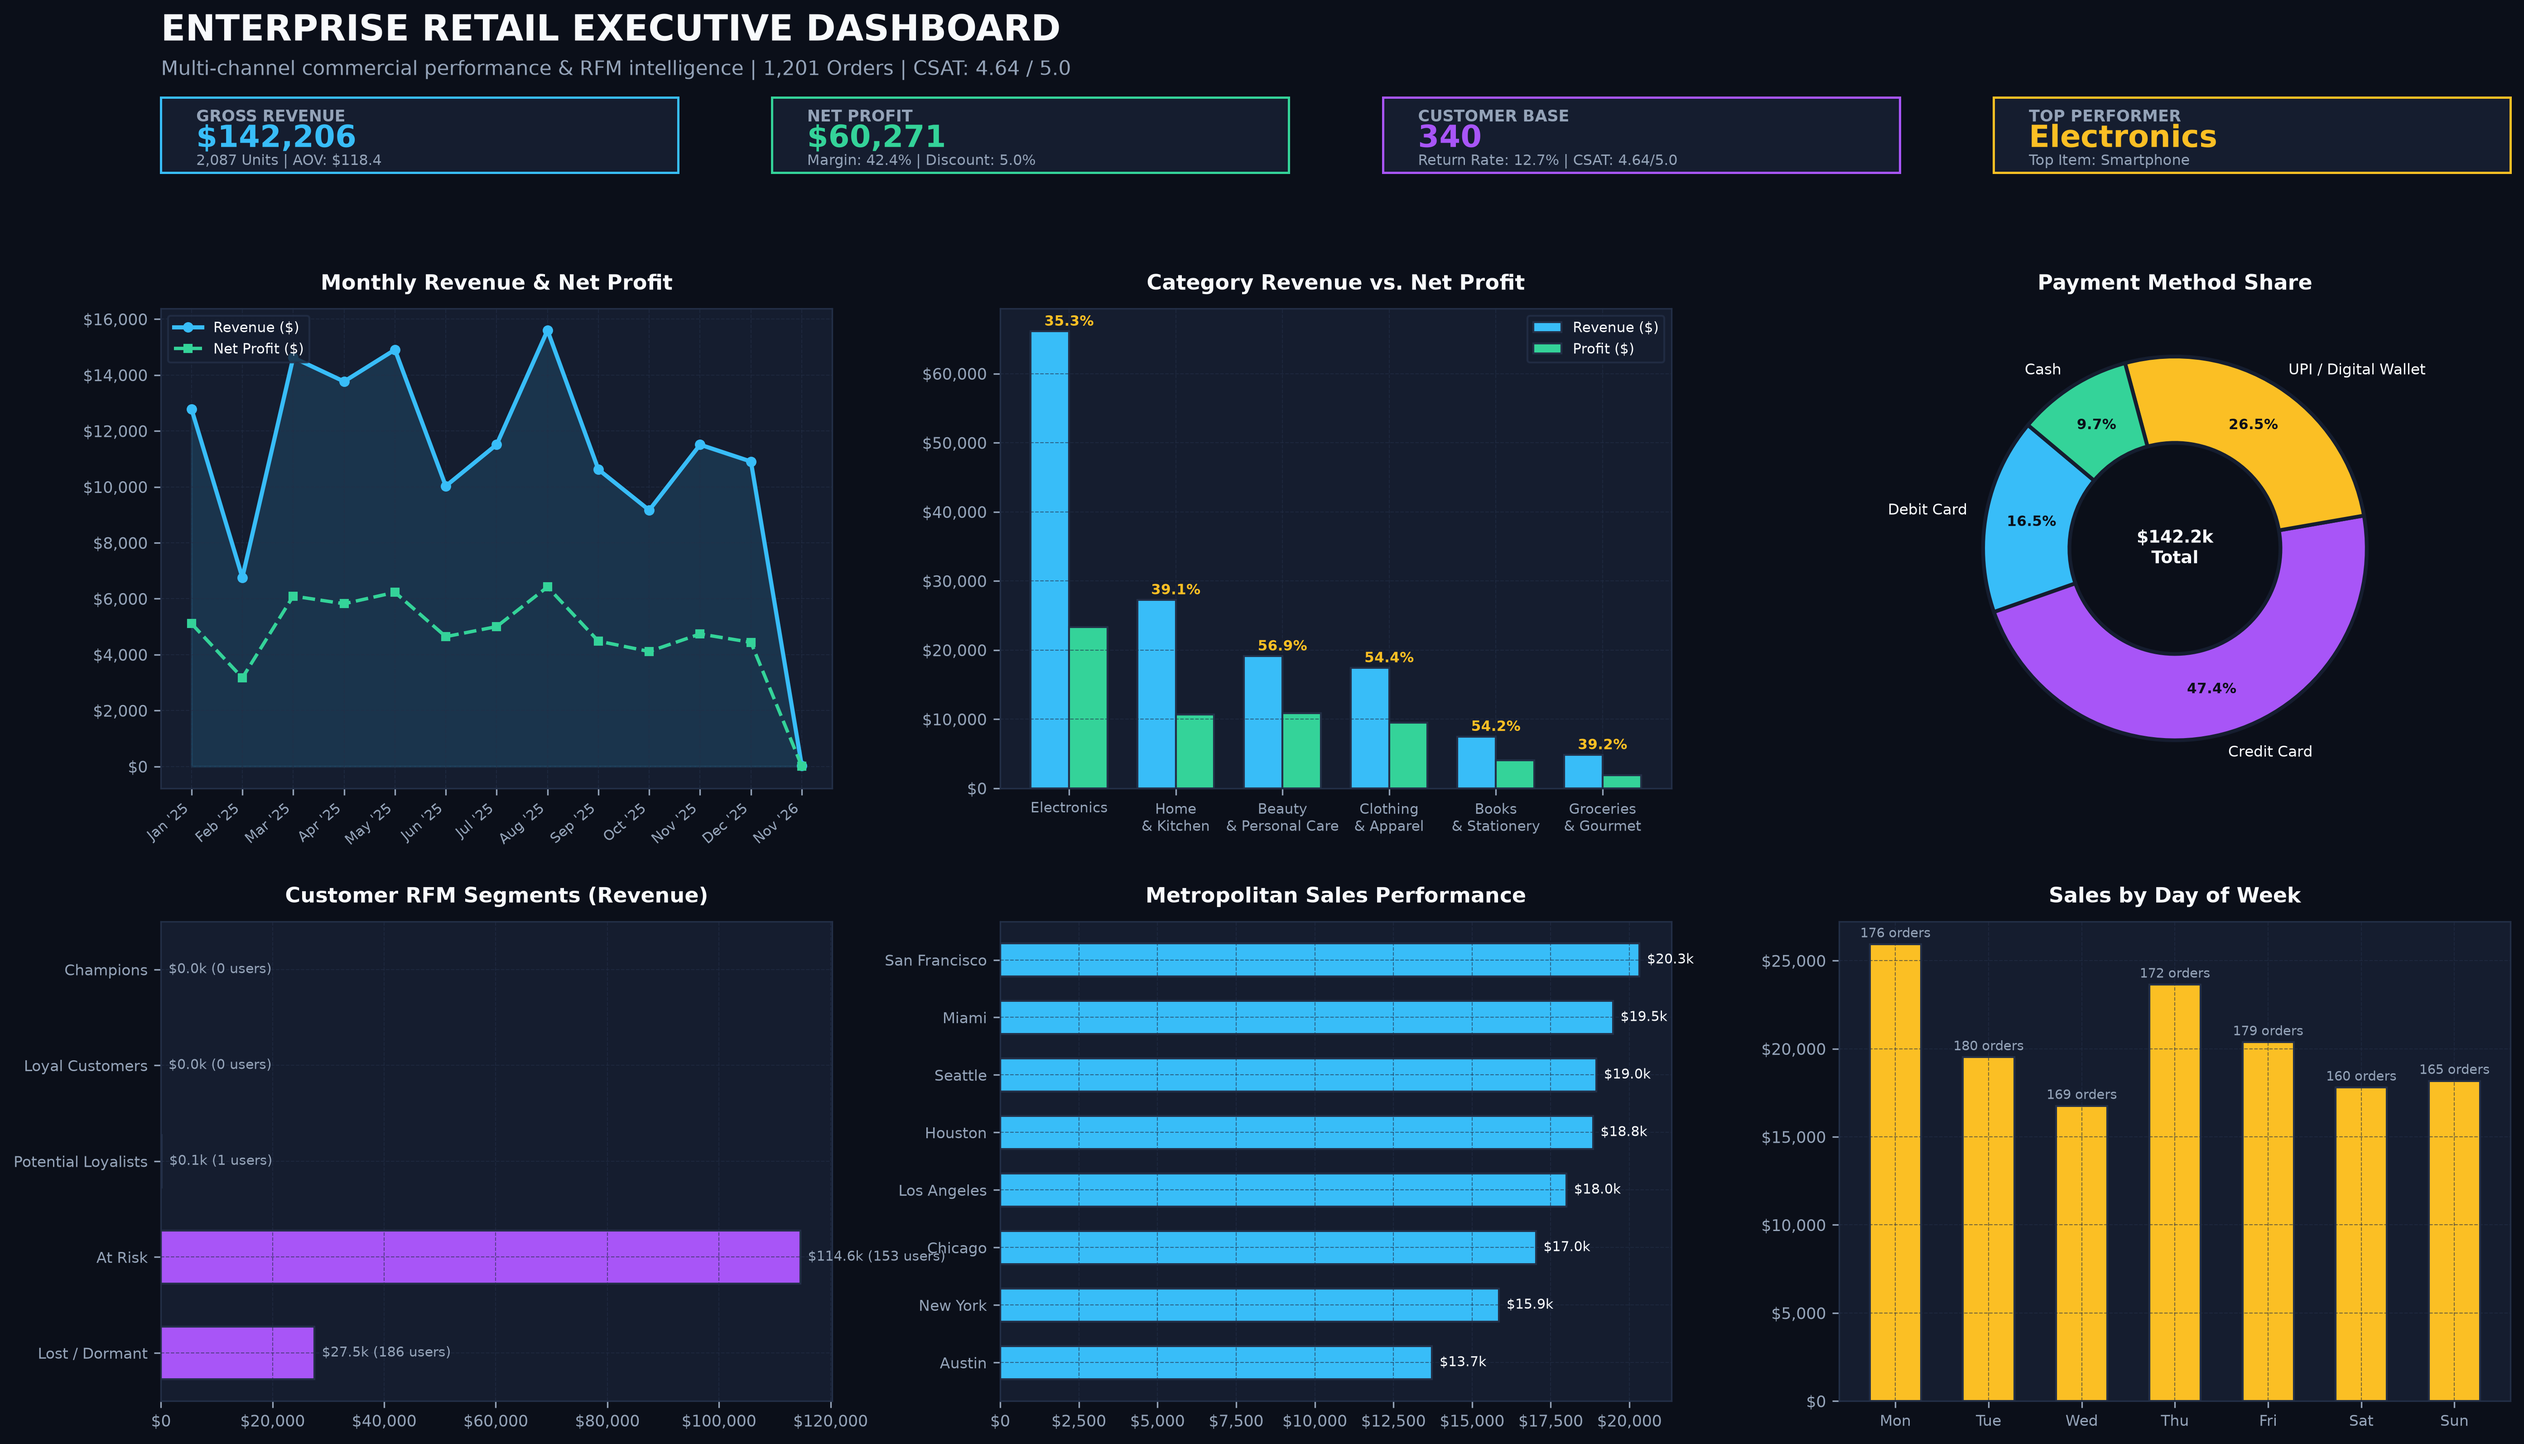
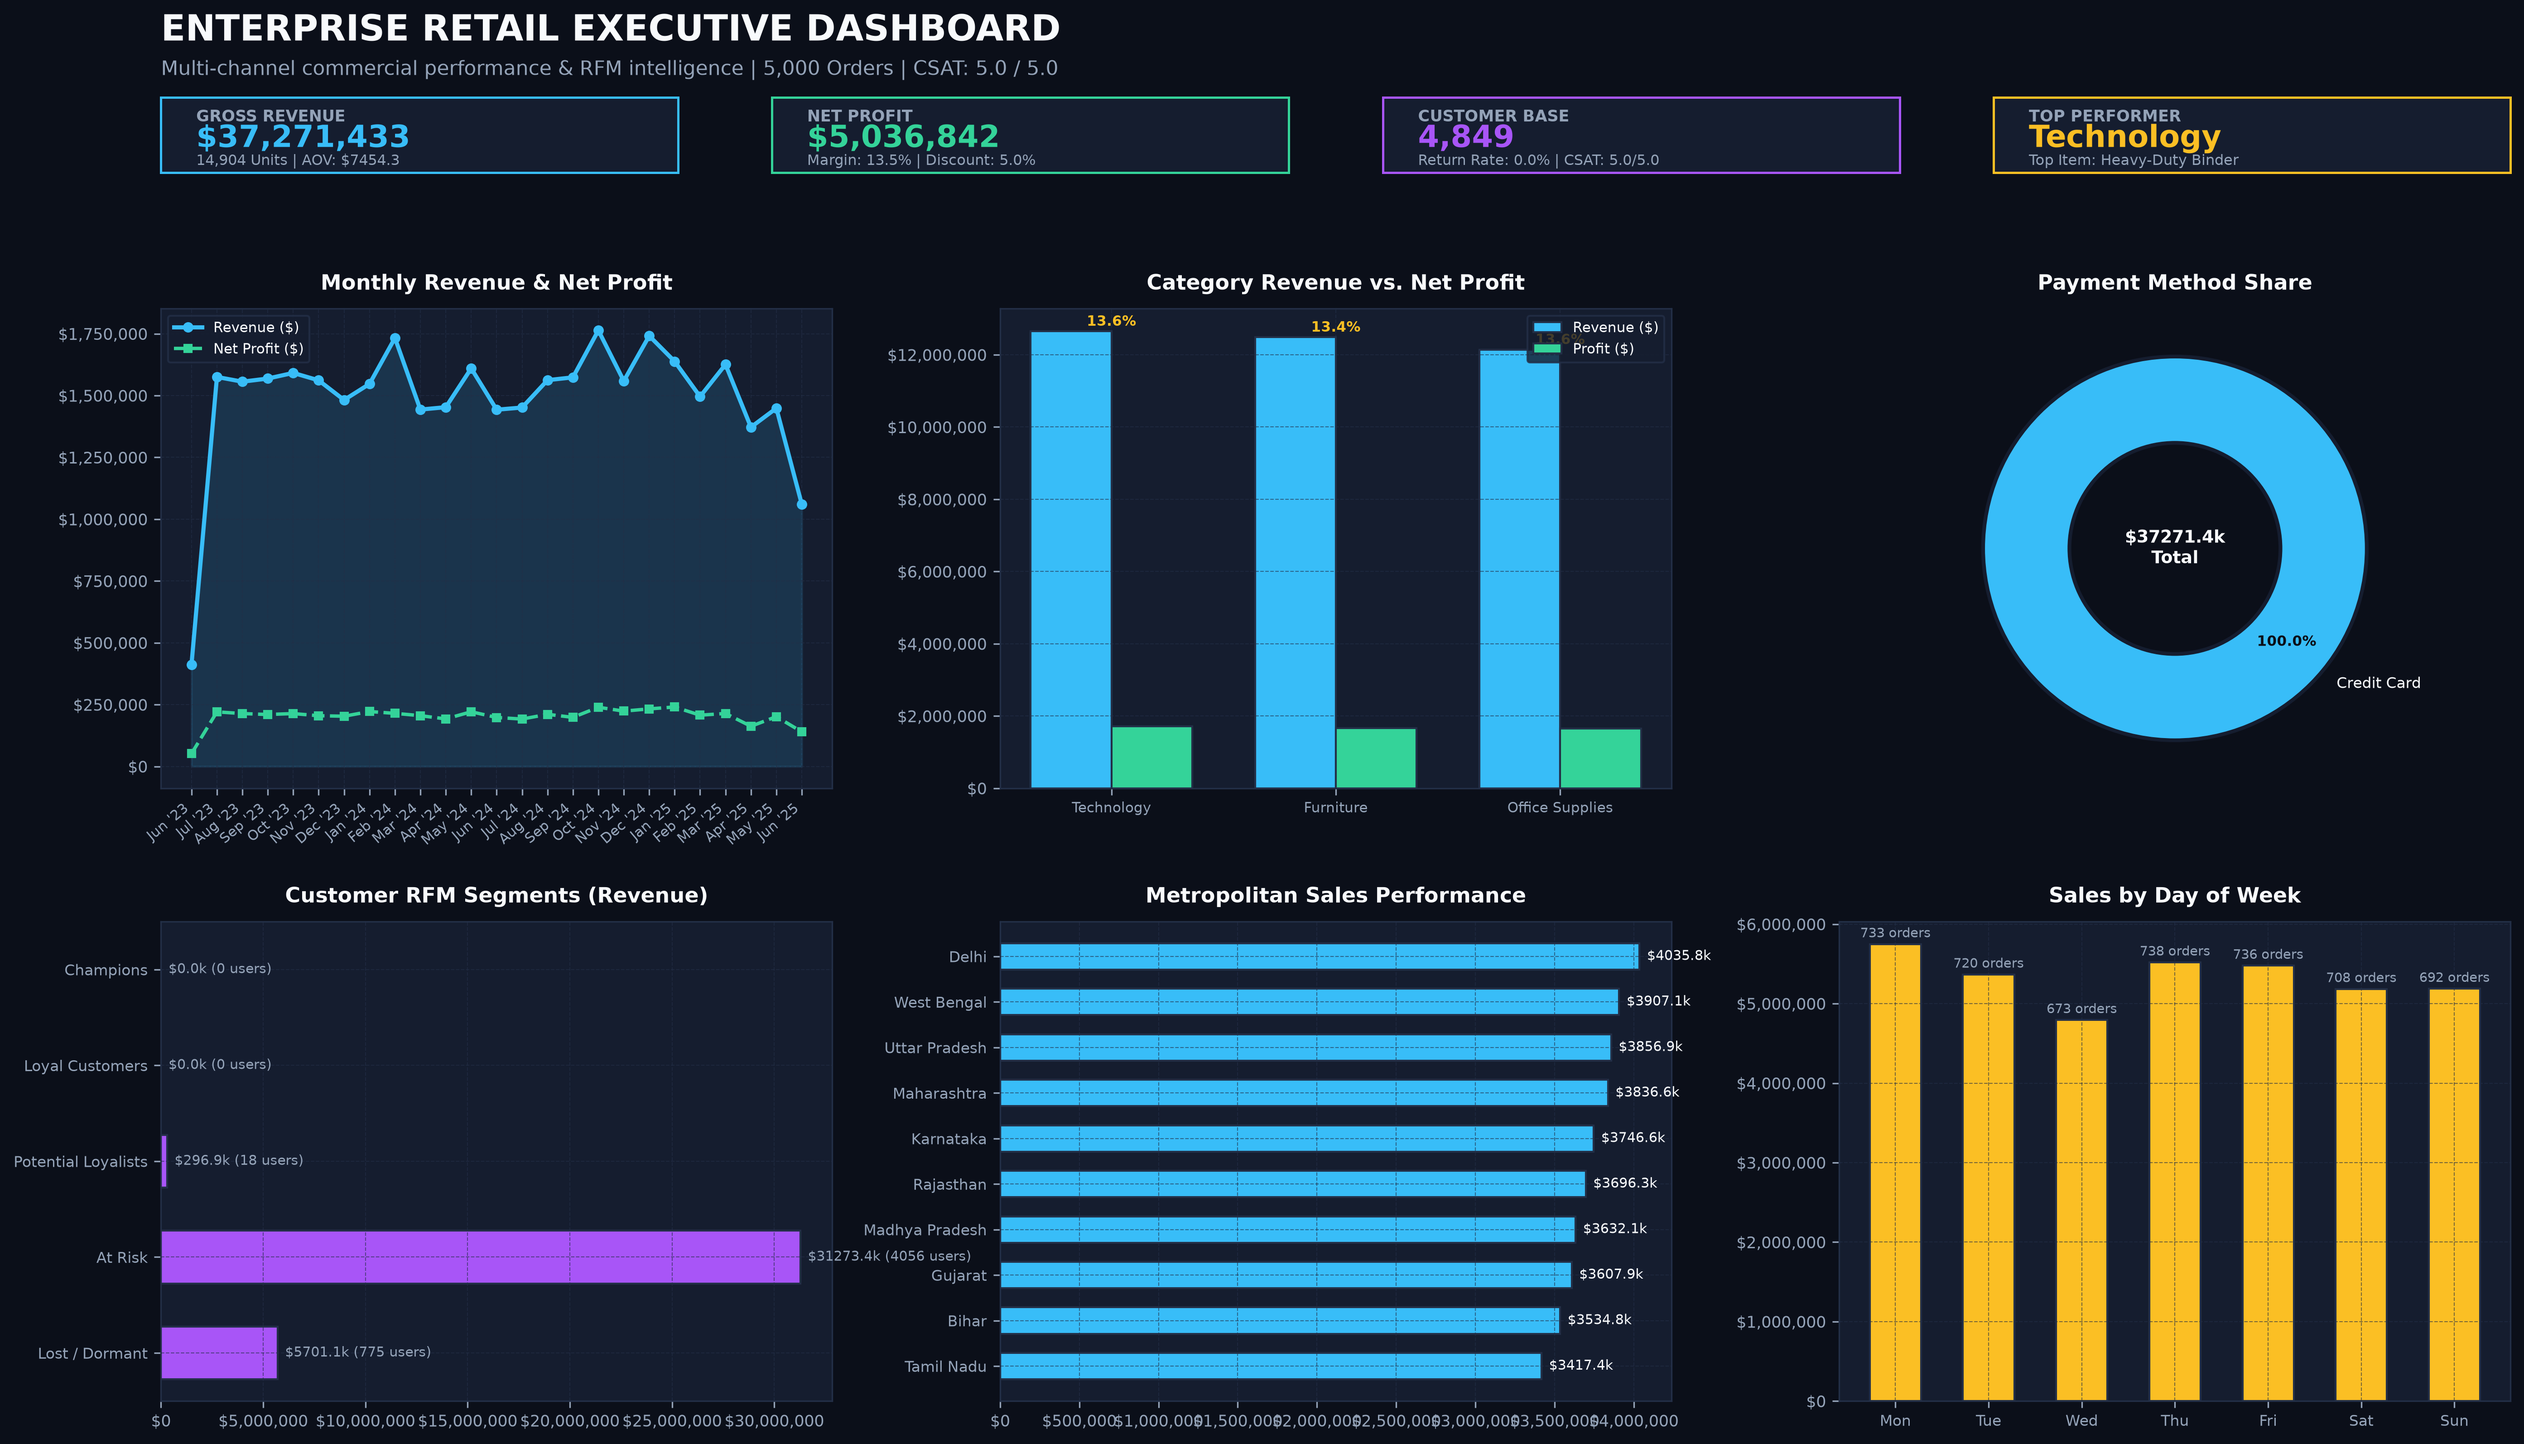
feat: default to 5000-row repo dataset with dynamic navbar dataset switcher

diff --git a/templates/index.html b/templates/index.html
@@ -733,7 +733,15 @@
     <div class="header-actions">
       <div class="badge">
         <span class="badge-dot"></span>
-        <span id="record-count-badge">Loaded 1,200 Records</span>
+        <span id="record-count-badge">Loaded 5,000 Records</span>
+      </div>
+
+      <div style="display: flex; align-items: center; gap: 6px; background: rgba(56, 189, 248, 0.08); padding: 4px 8px; border-radius: 8px; border: 1px solid rgba(56, 189, 248, 0.25);">
+        <i class="fa-solid fa-database" style="color: var(--accent-cyan); font-size: 0.85rem;"></i>
+        <select id="dataset-select" class="filter-select" style="padding: 0.35rem 0.6rem; font-size: 0.78rem; font-weight: 600; border: none; background: transparent; color: var(--text); outline: none; cursor: pointer;" onchange="switchActiveDataset(this.value)">
+          <option value="retail_sales_5000.csv">🏬 retail_sales_5000.csv (Excel Repo - 5,000 Rows)</option>
+          <option value="retail_sales_data.csv">📊 retail_sales_data.csv (Sample Data - 1,201 Rows)</option>
+        </select>
       </div>
 
       <button class="btn btn-config" onclick="switchTab('tab-category-editor', document.getElementById('btn-tab-categories'))">
@@ -1207,7 +1215,85 @@
     Chart.defaults.plugins.tooltip.titleColor = '#F8FAFC';
     Chart.defaults.plugins.tooltip.bodyColor = '#CBD5E1';
 
-    async function fetchData() {
+    let filtersInitialized = false;
+
+    function updateDynamicFilters(categories, cities) {
+      const catSelect = document.getElementById('filter-category');
+      const currentCat = catSelect ? catSelect.value : 'All';
+      if (catSelect && categories && categories.length > 0) {
+        catSelect.innerHTML = '<option value="All">All Categories</option>';
+        categories.forEach(c => {
+          const opt = document.createElement('option');
+          opt.value = c;
+          opt.textContent = c;
+          catSelect.appendChild(opt);
+        });
+        if (categories.includes(currentCat)) {
+          catSelect.value = currentCat;
+        } else {
+          catSelect.value = 'All';
+        }
+      }
+
+      const citySelect = document.getElementById('filter-city');
+      const currentCity = citySelect ? citySelect.value : 'All';
+      if (citySelect && cities && cities.length > 0) {
+        citySelect.innerHTML = '<option value="All">All Regions / States</option>';
+        cities.forEach(c => {
+          const opt = document.createElement('option');
+          opt.value = c;
+          opt.textContent = c;
+          citySelect.appendChild(opt);
+        });
+        if (cities.includes(currentCity)) {
+          citySelect.value = currentCity;
+        } else {
+          citySelect.value = 'All';
+        }
+      }
+    }
+
+    async function loadDatasetList() {
+      try {
+        const res = await fetch('/api/datasets');
+        const data = await res.json();
+        const sel = document.getElementById('dataset-select');
+        if (sel && data.datasets) {
+          sel.innerHTML = '';
+          data.datasets.forEach(d => {
+            const opt = document.createElement('option');
+            opt.value = d.id;
+            opt.textContent = d.name;
+            if (d.active) opt.selected = true;
+            sel.appendChild(opt);
+          });
+        }
+      } catch (err) {
+        console.error("Error loading datasets:", err);
+      }
+    }
+
+    async function switchActiveDataset(datasetFile) {
+      try {
+        const res = await fetch('/api/dataset/switch', {
+          method: 'POST',
+          headers: {'Content-Type': 'application/json'},
+          body: JSON.stringify({ dataset: datasetFile })
+        });
+        const data = await res.json();
+        if (data.success) {
+          filtersInitialized = false;
+          await fetchCategoryConfig();
+          await fetchData(true);
+        } else {
+          alert('Failed to switch dataset: ' + (data.error || 'Unknown error'));
+        }
+      } catch (err) {
+        alert('Error switching dataset: ' + err);
+      }
+    }
+
+    async function fetchData(forceUpdateFilters = false) {
       const cat = document.getElementById('filter-category').value;
       const city = document.getElementById('filter-city').value;
       const period = document.getElementById('filter-period').value;
@@ -1220,6 +1306,11 @@
         allTransactions = data.recent_transactions;
         renderTransactions(allTransactions);
         document.getElementById('record-count-badge').innerText = `Active ${data.kpis.total_transactions.toLocaleString()} Records`;
+
+        if (!filtersInitialized || forceUpdateFilters) {
+          updateDynamicFilters(data.categories ? data.categories.categories : [], data.cities ? data.cities.cities : []);
+          filtersInitialized = true;
+        }
       } catch (err) {
         console.error("Error fetching data:", err);
       }
@@ -1811,6 +1902,7 @@
     });
 
     // Initial load
+    loadDatasetList();
     fetchData();
     fetchCategoryConfig();
   </script>

diff --git a/app.py b/app.py
@@ -18,7 +18,9 @@ app = Flask(__name__)
 app.config['UPLOAD_FOLDER'] = os.path.dirname(os.path.abspath(__file__))
 app.config['MAX_CONTENT_LENGTH'] = 16 * 1024 * 1024  # 16 MB max upload
 
-DATA_FILE = os.path.join(app.config['UPLOAD_FOLDER'], "retail_sales_data.csv")
+DEFAULT_DATASET = "retail_sales_5000.csv" if os.path.exists(os.path.join(app.config['UPLOAD_FOLDER'], "retail_sales_5000.csv")) else "retail_sales_data.csv"
+CURRENT_DATASET = DEFAULT_DATASET
+DATA_FILE = os.path.join(app.config['UPLOAD_FOLDER'], CURRENT_DATASET)
 STATIC_DIR = os.path.join(app.config['UPLOAD_FOLDER'], "static")
 STATIC_IMG = os.path.join(STATIC_DIR, "retail_sales_dashboard.png")
 
@@ -28,17 +30,18 @@ os.makedirs(STATIC_DIR, exist_ok=True)
 analyzer = RetailSalesAnalyzer(DATA_FILE)
 
 # Ensure static dashboard image exists
-if not os.path.exists(STATIC_IMG):
-    if os.path.exists("retail_sales_dashboard.png"):
-        shutil.copy("retail_sales_dashboard.png", STATIC_IMG)
-    else:
-        create_dashboard(csv_path=DATA_FILE, output_image=STATIC_IMG, show_plot=False)
+try:
+    create_dashboard(csv_path=DATA_FILE, output_image=STATIC_IMG, show_plot=False)
+    if os.path.exists(STATIC_IMG):
+        shutil.copy(STATIC_IMG, "retail_sales_dashboard.png")
+except Exception as e:
+    print(f"Initial dashboard render note: {e}")
 
 def refresh_dashboard_image():
     """Regenerates the 300 DPI Matplotlib image reflecting current category config."""
     try:
         create_dashboard(csv_path=DATA_FILE, output_image=STATIC_IMG, show_plot=False)
-        if os.path.exists("retail_sales_dashboard.png"):
+        if os.path.exists(STATIC_IMG):
             shutil.copy(STATIC_IMG, "retail_sales_dashboard.png")
     except Exception as e:
         print(f"Error refreshing dashboard image: {e}")
@@ -46,6 +49,39 @@ def refresh_dashboard_image():
 @app.route("/")
 def index():
     return render_template("index.html")
+
+@app.route("/api/datasets", methods=["GET"])
+def get_datasets():
+    datasets = []
+    f5000 = os.path.join(app.config['UPLOAD_FOLDER'], "retail_sales_5000.csv")
+    fdata = os.path.join(app.config['UPLOAD_FOLDER'], "retail_sales_data.csv")
+    if os.path.exists(f5000):
+        datasets.append({
+            "id": "retail_sales_5000.csv",
+            "name": "retail_sales_5000.csv (5,000 Rows - Excel Repo Dataset)",
+            "active": CURRENT_DATASET == "retail_sales_5000.csv"
+        })
+    if os.path.exists(fdata):
+        datasets.append({
+            "id": "retail_sales_data.csv",
+            "name": "retail_sales_data.csv (1,201 Rows - Sample Dataset)",
+            "active": CURRENT_DATASET == "retail_sales_data.csv"
+        })
+    return jsonify({"current": CURRENT_DATASET, "datasets": datasets})
+
+@app.route("/api/dataset/switch", methods=["POST"])
+def switch_dataset():
+    global CURRENT_DATASET, DATA_FILE, analyzer
+    data = request.get_json(silent=True) or {}
+    target = data.get("dataset", "retail_sales_5000.csv")
+    target_path = os.path.join(app.config['UPLOAD_FOLDER'], target)
+    if os.path.exists(target_path):
+        CURRENT_DATASET = target
+        DATA_FILE = target_path
+        analyzer = RetailSalesAnalyzer(DATA_FILE)
+        refresh_dashboard_image()
+        return jsonify({"success": True, "dataset": CURRENT_DATASET, "records": len(analyzer.records)})
+    return jsonify({"success": False, "error": f"Dataset file '{target}' not found"}), 404
 
 @app.route("/api/metrics")
 def get_metrics():
